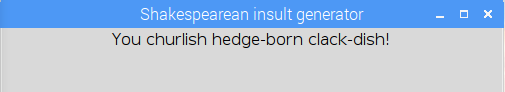
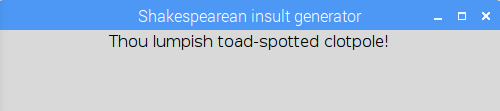
Change you to thou

Changed region(s): [[0.0, 0.0, 1.0, 0.5217], [0.99, 0.3261, 1.0, 1.0]]

diff --git a/code/shakespeare.py b/code/shakespeare.py
@@ -5,7 +5,7 @@ def insult_me():
     word_a = random.choice(list_a)
     word_b = random.choice(list_b)
     word_c = random.choice(list_c)
-    insult = "You " + word_a + " " + word_b + " " + word_c + "!"
+    insult = "Thou " + word_a + " " + word_b + " " + word_c + "!"
     return insult
 
 def new_insult():
@@ -22,8 +22,6 @@ with open("insults.csv", "r") as f:
         list_a.append(words[0])
         list_b.append(words[1])
         list_c.append(words[2].strip())
-
-insult_me()
 
 app = App("Shakespearean insult generator")
 message = Text(app, insult_me() )

diff --git a/worksheet.md b/worksheet.md
@@ -19,7 +19,7 @@ Sometimes the values are **encapsulated**, for example they may be encapsulated 
 This is usually because the data itself contains commas, so we need to avoid confusion between where a comma represents a break between different data items, and where it is simply part of the data. For example in this CSV file encapsulation is definitely necessary:
 
 ```CSV
-"tabitha, slayer of mice", "tiddles, drinker of milk", "tiffany, leaver of hairballs"
+"Tabitha, slayer of mice", "Tiddles, drinker of milk", "Tiffany, leaver of hairballs"
 ```
 The most basic way of creating a CSV file is to type data into a text file in CSV format, and then save the file with the extension `.csv`. Alternatively you could use a program such as LibreOffice Calc or Microsoft Excel to create and save a file in CSV format.
 
@@ -75,7 +75,7 @@ The most basic way of creating a CSV file is to type data into a text file in CS
 
   Change the code and see if you can work out the difference betweeen `read()` and `readline()`
 
-1. So far we are able to read the insults from the file in the order they were written, but we can't do much with them. You may have noticed that the different columns forming the parts of the insult were different types of word. The first two columns (A and B) contain **adjectives** (describing words) and the final column (C) contains **nouns**, mostly in this case referring to a 'thing' the person resembles. If we could split them up, we could make insults of the form "You [List A] [List B] [List C]" by choosing a random word from each list. An example might be "You impertinent rump-fed miscreant".
+1. So far we are able to read the insults from the file in the order they were written, but we can't do much with them. You may have noticed that the different columns forming the parts of the insult were different types of word. The first two columns (A and B) contain **adjectives** (describing words) and the final column (C) contains **nouns**, mostly in this case referring to a 'thing' the person resembles. If we could split them up, we could make insults of the form "Thou [List A] [List B] [List C]" by choosing a random word from each list. An example might be "Thou impertinent rump-fed miscreant".
 
 ## Lists in Python
 
@@ -162,7 +162,7 @@ Now we have three lists, let's write a function to choose a random word from eac
 1. Still writing your code *inside the function*, use *concatenation* (a `+` symbol) to join the three words together, along with some spaces. The `+` is like the programmer's glue - it joins **strings** together. The first part has been done for you here, but you need to finish it off:
 
   ```python
-  insult = "You " + word_a + " "
+  insult = "Thou " + word_a + " "
   ```
 
 1. Finally, when you have created the full insult and stored it inside the variable `insult`, add another line of code inside the function to print the insult you have created:
